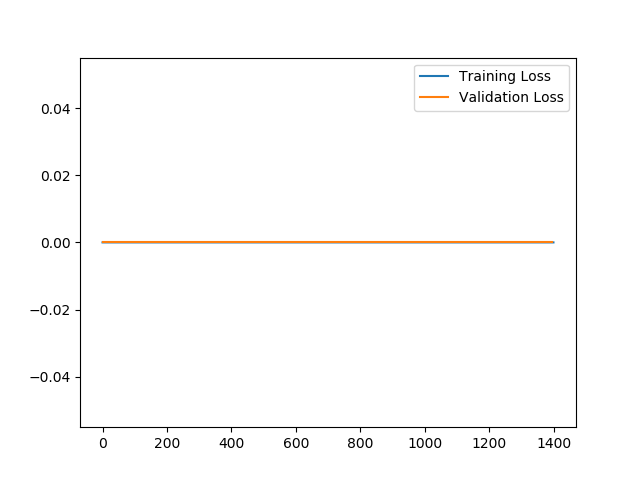
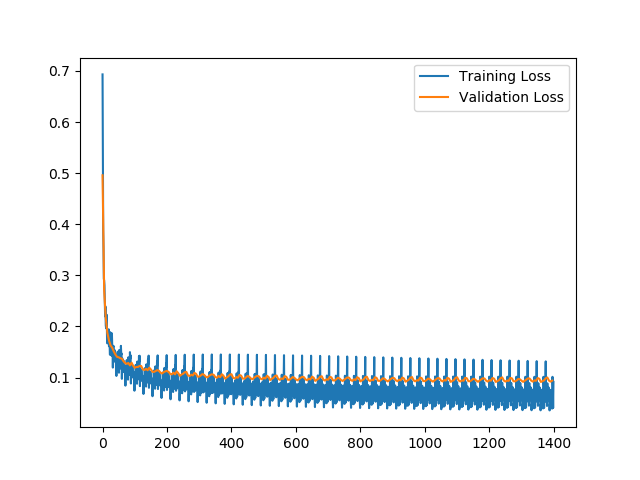
Task 2b

diff --git a/TDT4265-StarterCode-master/assignment1/task2.py b/TDT4265-StarterCode-master/assignment1/task2.py
@@ -50,13 +50,17 @@ def train(
             end = start + batch_size
             X_batch, Y_batch = X_train[start:end], Y_train[start:end]
 
+            y_hat = model.forward(X_batch)
+            
+            model.backward(X_batch, y_hat, Y_batch)
+            model.w += -1*learning_rate*model.grad
 
             # Track training loss continuously
-            _train_loss = 0
+            _train_loss = cross_entropy_loss(Y_batch, y_hat)
             train_loss[global_step] = _train_loss
             # Track validation loss / accuracy every time we progress 20% through the dataset
             if global_step % num_steps_per_val == 0:
-                _val_loss = 0
+                _val_loss = cross_entropy_loss(Y_val, model.forward(X_val))
                 val_loss[global_step] = _val_loss
 
                 train_accuracy[global_step] = calculate_accuracy(
